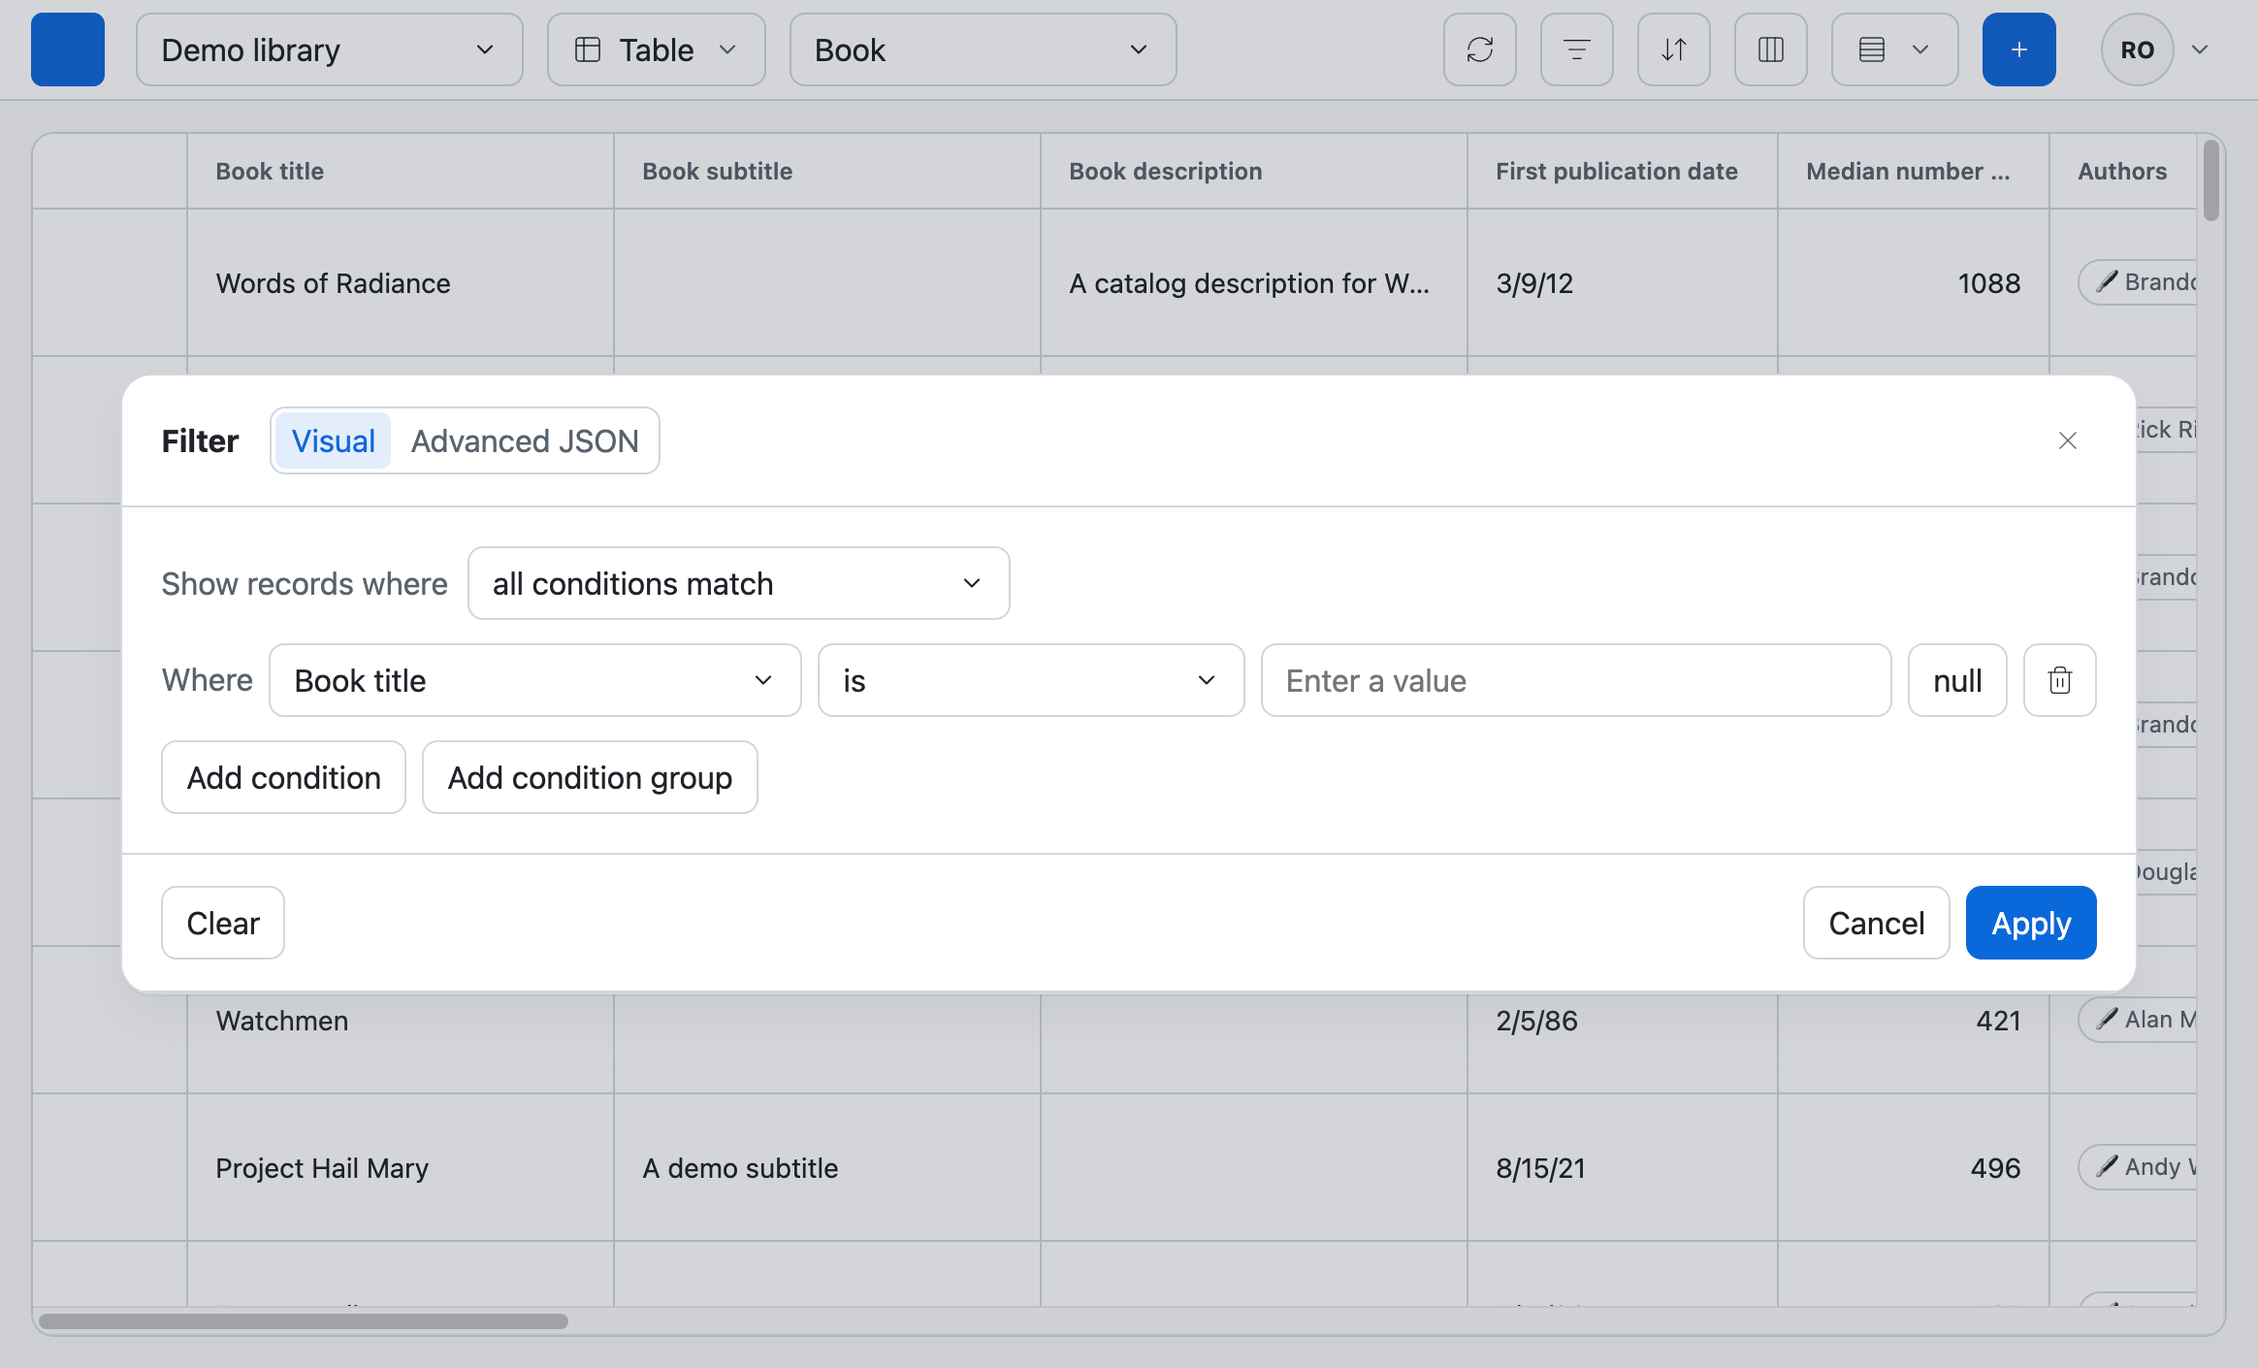
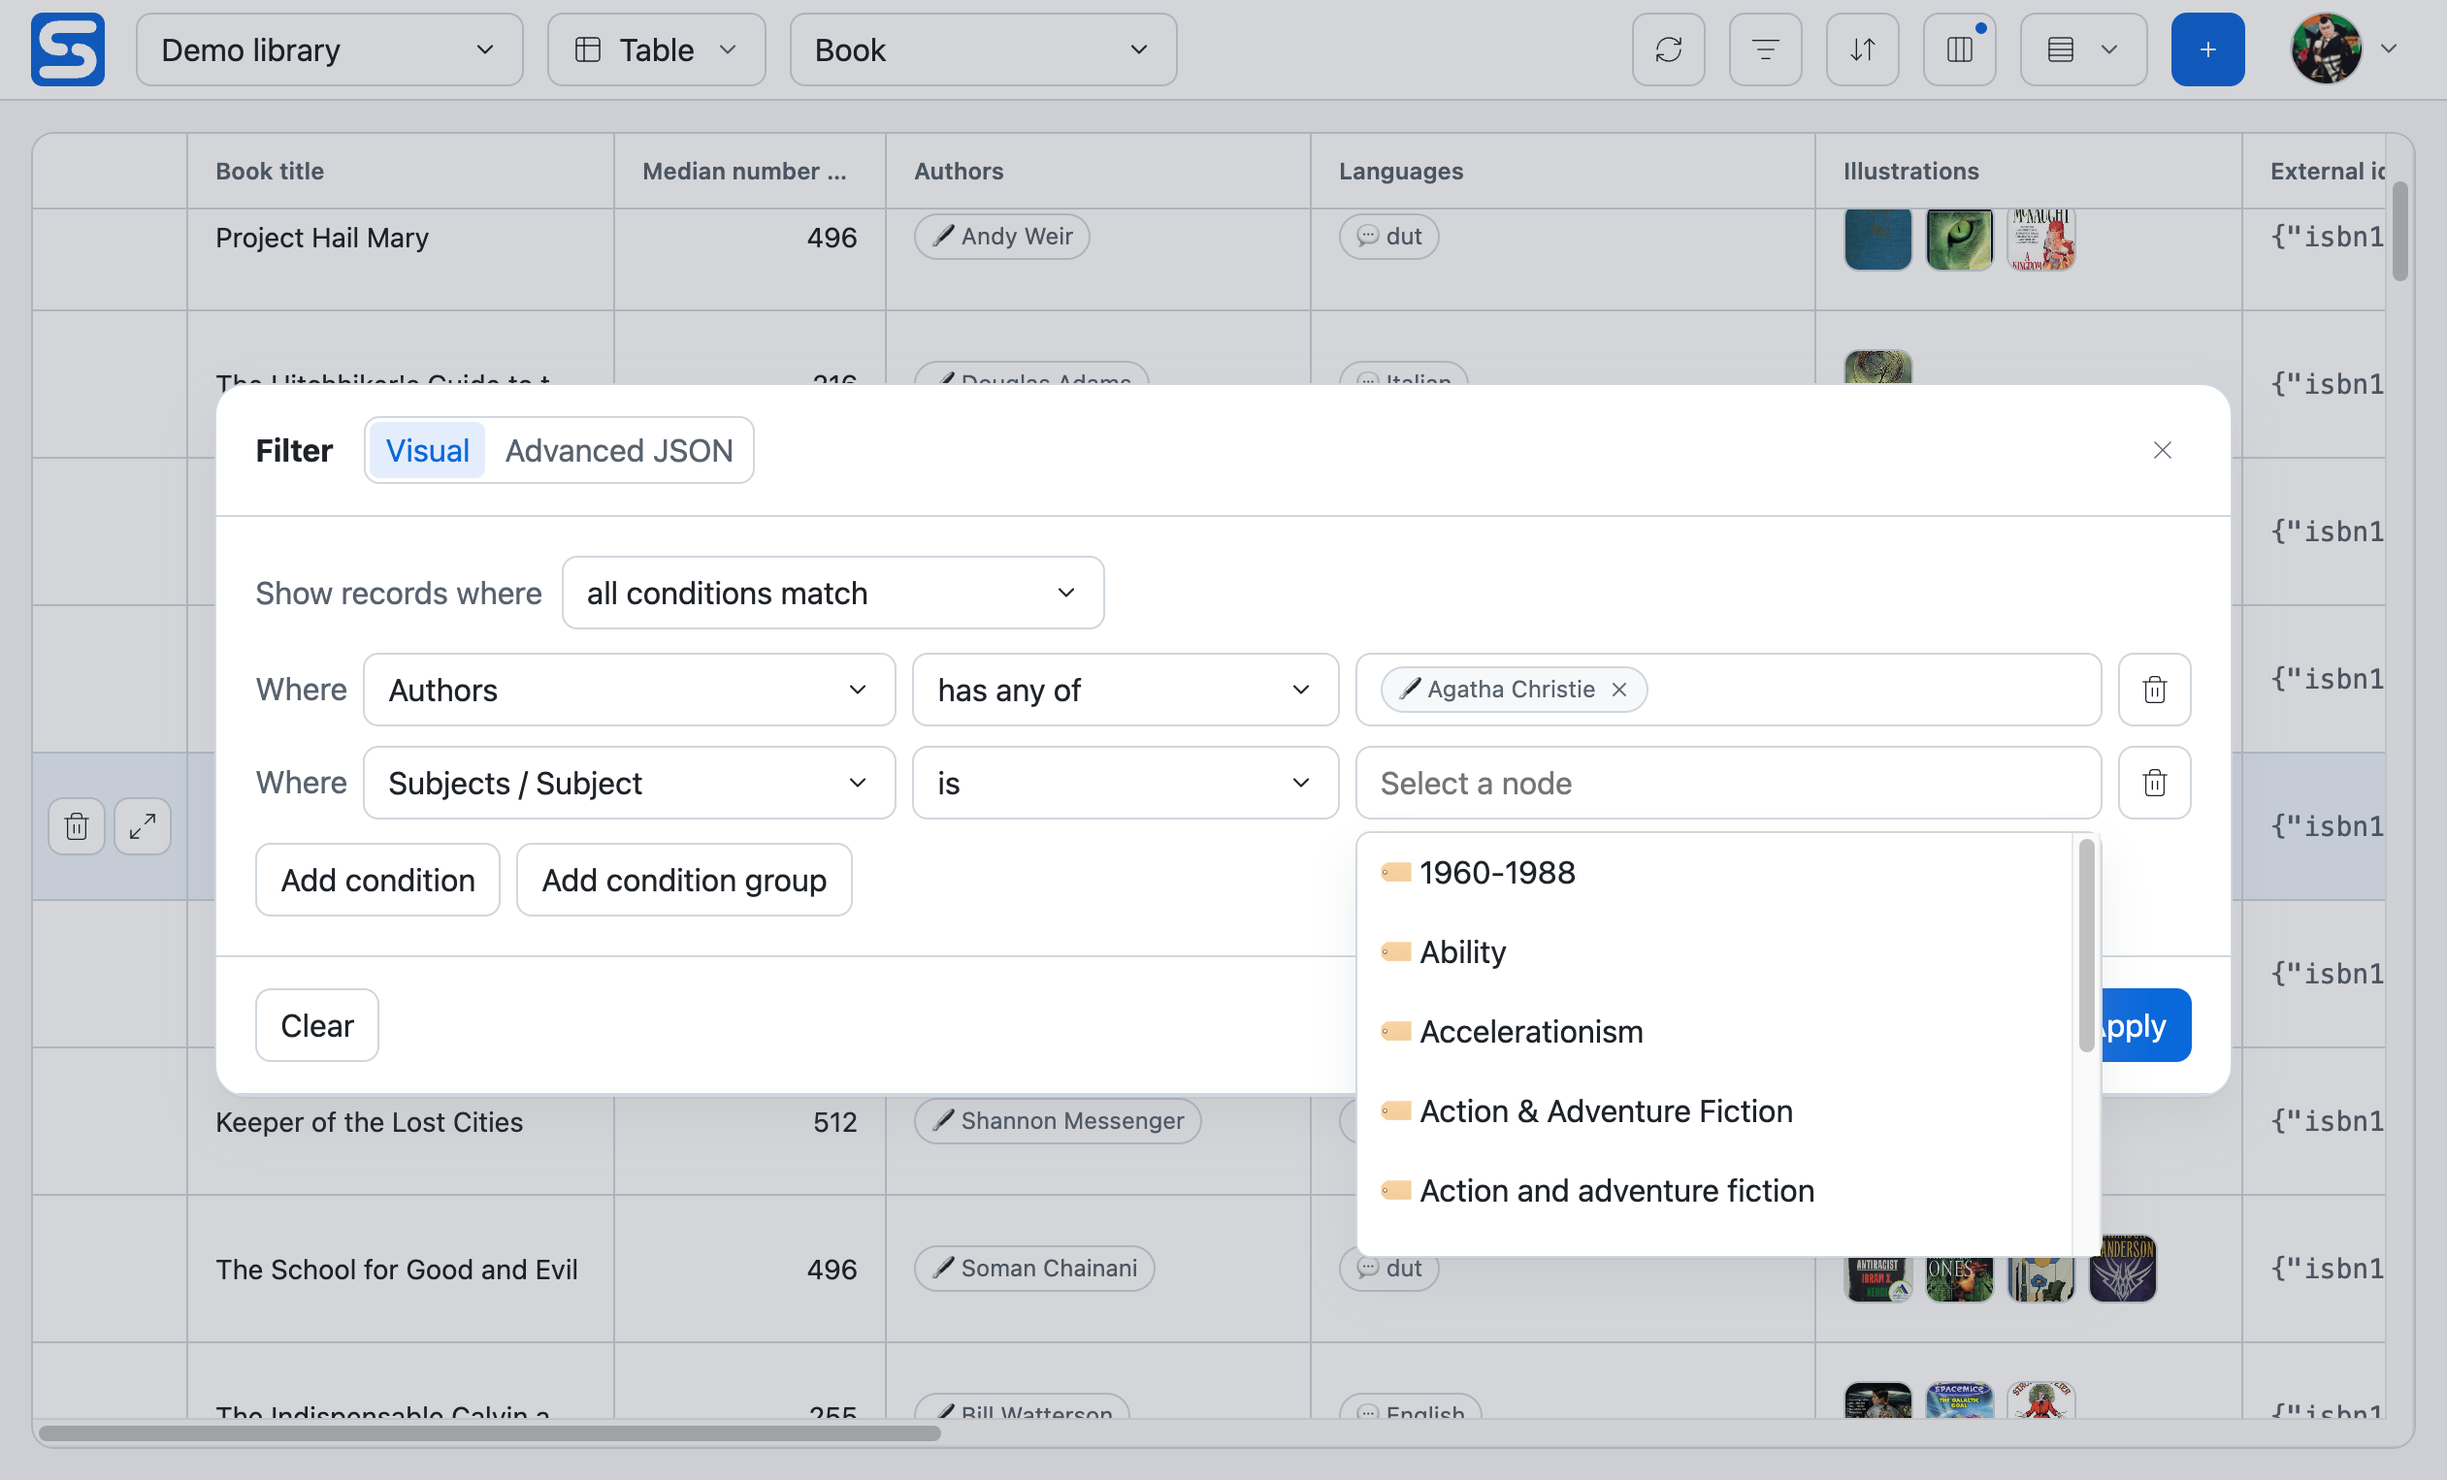
Refresh project branding and documentation

diff --git a/docs/development/ci-and-releases.md b/docs/development/ci-and-releases.md
@@ -9,9 +9,16 @@ publish releases and documentation. Their definitions are in
 
 | Workflow | Runs on | Result |
 | --- | --- | --- |
-| **CI** | Pushes to `main`, pull requests, manual runs, and calls from Release build; documentation-only changes use the documentation workflow instead. | Unit tests on Python 3.11 and 3.14, MongoDB/S3 integration tests, verified Python distributions, and Docker builds for `linux/amd64` and `linux/arm64`. |
+| **CI** | Pushes to `main` and pull requests, with the path exclusions described below; manual runs and calls from Release build. | Unit tests on Python 3.11 and 3.14, MongoDB/S3 integration tests, verified Python distributions, and Docker builds for `linux/amd64` and `linux/arm64`. |
 | **Release build** | Tags matching `v*`, or a manual run on a selected ref. | CI and documentation checks, plus downloadable Docker images for both architectures. Tag pushes in `sandala-project/sandala` also publish Python distributions to PyPI and a multi-platform Docker image to GHCR, subject to their environment approvals. |
 | **Documentation build** | Documentation, Zensical configuration, or documentation-workflow changes on `main` or in a pull request; manual runs and calls from Release build. | A clean, strict Zensical build saved as the `documentation-site` artifact; eligible runs on `main` also deploy to GitHub Pages. |
+
+Automatic CI runs are skipped when all changed files are under `docs/` or are
+`zensical.toml`, `README.md`, or `AGENTS.md`. Changes to dependencies, tests,
+build scripts, Docker configuration, or workflows still trigger CI. These path
+exclusions do not apply to manual runs or calls from Release build. The
+documentation workflow has its own triggers; README-only and AGENTS-only
+changes do not rebuild the site.
 
 CI rejects integration runs with skipped tests rather than treating them as
 successful checks.
@@ -61,11 +68,6 @@ Publication reads the index back and checks it against the expected platforms,
 digests, and source, description, license, version, and source-commit
 annotations. It does not rebuild the images or run project code in the job
 with registry write access.
-
-After the first GHCR publication, change the package's visibility to **Public**
-in its package settings, then verify an unauthenticated pull; a new GHCR
-package is private by default. See GitHub's
-[Container registry documentation](https://docs.github.com/en/packages/working-with-a-github-packages-registry/working-with-the-container-registry).
 
 ## Documentation publication
 

diff --git a/README.md b/README.md
@@ -1,6 +1,17 @@
-# Sandala
+<p align="center">
+  <img src="https://sandala-project.github.io/sandala/assets/sandala-wordmark.svg" alt="Sandala" width="408" height="80">
+</p>
 
-**Define your data. Get an API and an admin UI. Keep the power of MongoDB.**
+<p align="center">
+  <strong>Define your data. Get an API and an admin UI. Keep the power of MongoDB.</strong>
+</p>
+
+<p align="center">
+  <a href="https://pypi.org/project/sandala/"><img src="https://img.shields.io/pypi/v/sandala?label=PyPI&amp;color=0969DA" alt="PyPI version"></a>
+  <a href="https://github.com/sandala-project/sandala/pkgs/container/sandala"><img src="https://img.shields.io/badge/Docker-GHCR-0969DA?logo=docker&amp;logoColor=white" alt="Docker image on GHCR"></a>
+  <a href="https://sandala-project.github.io/sandala/"><img src="https://img.shields.io/badge/docs-online-0969DA" alt="Documentation"></a>
+  <a href="https://github.com/sandala-project/sandala/blob/main/LICENSE"><img src="https://img.shields.io/badge/license-MIT-green" alt="License: MIT"></a>
+</p>
 
 Sandala is an open-source headless CMS for structured data, built on MongoDB.
 Define your data models and get a REST API and a ready-to-use admin UI — with
@@ -16,14 +27,14 @@ approaches in the same model — with schemas that keep your data structured.
   and optional trees let you organize data the way your application needs.
 - **Query through relationships.** Filter and sort by linked data, choose the
   fields you need, and fetch related documents in one API request.
-- **Skip building the back office.** Manage schemas, browse data, and edit
-  content in an admin UI that follows your data model.
+- **Work with data your way.** Edit records in familiar tables, explore them
+  as a tree, and manage your schemas — all in one admin UI.
 - **Build on the essentials.** Node permissions, field-level access controls,
   users, groups, and local or S3-compatible file storage are already there.
 - **Make it yours.** Run Sandala as a standalone backend, extend it with Python
   hooks, or embed it in your own Python application.
 
-[![Designing a Book data model in the Sandala admin UI](https://sandala-project.github.io/sandala/assets/admin-ui/schema-editor-wide.png)](https://sandala-project.github.io/sandala/guides/using-the-admin-ui/)
+[![Working with a table in the Sandala admin UI](https://sandala-project.github.io/sandala/assets/admin-ui/table.png)](https://sandala-project.github.io/sandala/guides/using-the-admin-ui/)
 
 ## Get started
 

diff --git a/docs/index.md b/docs/index.md
@@ -16,14 +16,14 @@ approaches in the same model — with schemas that keep your data structured.
   and optional trees let you organize data the way your application needs.
 - **Query through relationships.** Filter and sort by linked data, choose the
   fields you need, and fetch related documents in one API request.
-- **Skip building the back office.** Manage schemas, browse data, and edit
-  content in an admin UI that follows your data model.
+- **Work with data your way.** Edit records in familiar tables, explore them
+  as a tree, and manage your schemas — all in one admin UI.
 - **Build on the essentials.** Node permissions, field-level access controls,
   users, groups, and local or S3-compatible file storage are already there.
 - **Make it yours.** Run Sandala as a standalone backend, extend it with Python
   hooks, or embed it in your own Python application.
 
-[![Designing a Book data model in the Sandala admin UI](assets/admin-ui/schema-editor-wide.png)](guides/using-the-admin-ui.md)
+[![Working with a table in the Sandala admin UI](assets/admin-ui/table.png)](guides/using-the-admin-ui.md)
 
 ## Get started
 

diff --git a/docs/guides/using-the-admin-ui.md b/docs/guides/using-the-admin-ui.md
@@ -48,6 +48,8 @@ configure the view:
 - **Filter** and **Sort** provide visual builders and an Advanced JSON mode.
 - **Create node** opens an editor for the selected entity.
 
+![Book table](../assets/admin-ui/table.png)
+
 The visual builders expose fields meaningful to the current user. Use Advanced
 JSON when the complete query language is needed; its syntax and restrictions
 are documented in [Nodes](../reference/rest-api/nodes.md).
